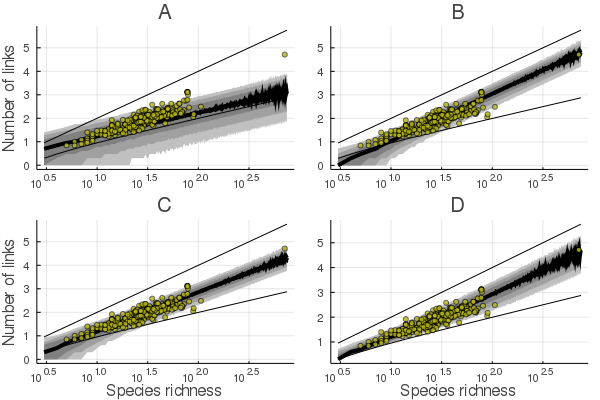
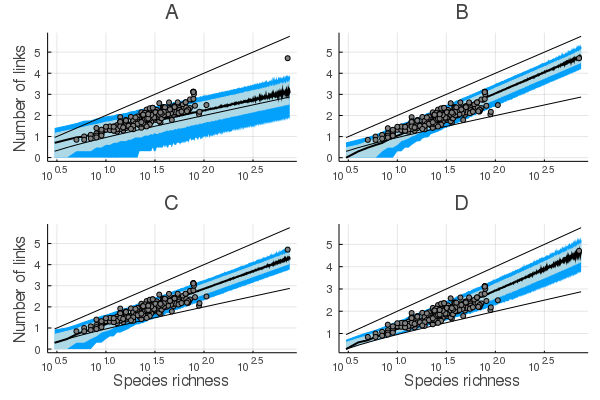
Color of counterfactuals figure

diff --git a/manuscript.md b/manuscript.md
@@ -279,8 +279,6 @@ Constant connectance model makes many predictions which are only approximate. Th
 they are frequently too low. The beta binomial makes roughly the same predictions as the power law, but in
 this case they are held within biologically possible values.
 
-![Connectance and average degree can be derived from a model for links](figures/fig_04_linkdens_connect_k.png){#fig:beta_distributions}
-
 ## Average degree is constant (for large enough food webs)
 
 <!-- tk I don't know what to do with "average degree" -- I like the arguments here, and I like this interpretation of how adding p^-1 species increases average degree, but we have not been talking about this at all yet. -->
@@ -356,7 +354,7 @@ $$ L \sim Normal(\bar{L}, \sigma_L^2) $$
 
 $$ \bar{L} = (S^2 - S + 1) \mu + S - 1$$
 
-$$ \sigma_L^2 = (S^2 - S + 1) \mu (1 - \mu)(1 + S(S-1)\left(\frac{1}{\phi + 1}\right))$$
+$$ \sigma_L^2 = (S^2 - S + 1) \mu (1 - \mu)(1 + \frac{S(S-1)}{\phi + 1})$$
 
 This means that given a network
 with observed species richness $S_{obs}$ and observed links $L_{obs}$, we can calculate its
